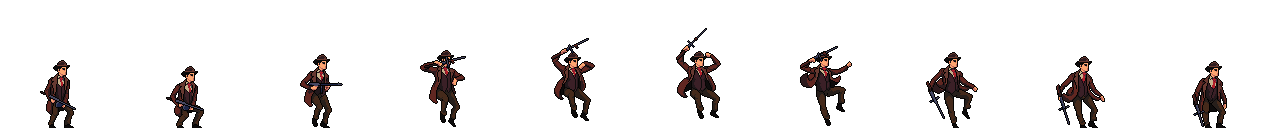
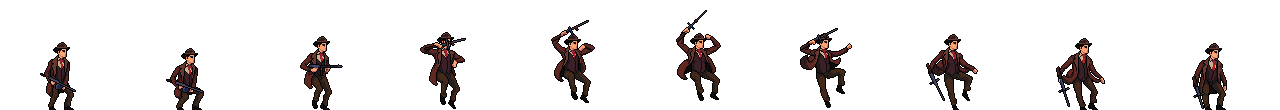
feat: geracao aleatoria de plataformas

diff --git a/src/Entidades/Personagens/Jogador.cpp b/src/Entidades/Personagens/Jogador.cpp
@@ -11,10 +11,10 @@ Jogador::Jogador(float px, float py, int vidas) : Personagem(px, py, vidas),
                                                   animacao(), direcao(1), state(IDLE), velocidadeCorrida(VELOCIDADE_CORRIDA * velocidadeX),
                                                   tempoDesdeUltimoPulo(0.0f) // Inicializa o tempo desde o último pulo
 {
-    animacao.addTrilha("idle", new TrilhaAnimacao(5, 15, 128, 128, 3.0, 3.0, "./assets/Gangsters_1/Idle.png"));
-    animacao.addTrilha("running", new TrilhaAnimacao(9, 10, 128, 128, 3.0, 3.0, "./assets/Gangsters_1/Run.png"));
-    animacao.addTrilha("walking", new TrilhaAnimacao(9, 10, 128, 128, 3.0, 3.0, "./assets/Gangsters_1/Walk.png"));
-    animacao.addTrilha("jump", new TrilhaAnimacao(9, 10, 128, 128, 3.0, 3.0, "./assets/Gangsters_1/Jump.png"));
+    animacao.addTrilha("idle", new TrilhaAnimacao(5, 15, 128, 79, 40, 3.0, 3.0, "./assets/Gangsters_1/Idle.png"));
+    animacao.addTrilha("running", new TrilhaAnimacao(9, 10, 128, 80, 20, 3.0, 3.0, "./assets/Gangsters_1/Run.png"));
+    animacao.addTrilha("walking", new TrilhaAnimacao(9, 10, 128, 81, 40, 3.0, 3.0, "./assets/Gangsters_1/Walk.png"));
+    animacao.addTrilha("jump", new TrilhaAnimacao(9, 10, 128, 110, 35, 3.0, 3.0, "./assets/Gangsters_1/Jump.png"));
     animacao.setPosition(x, y);
     animacao.setScale(3.f, 3.f);
     setAnimationState();
@@ -151,11 +151,8 @@ void Jogador::executar()
 
 void Jogador::aplicarGravidade()
 {
-    if (!noChao)
-    {
-        velocidadeY += GRAVIDADE * TEMPO_FRAME; // Aceleração devido à gravidade
-        y += velocidadeY * TEMPO_FRAME;
-    }
+    velocidadeY += GRAVIDADE * TEMPO_FRAME; // Aceleração devido à gravidade
+    y += velocidadeY * TEMPO_FRAME;
 }
 
 void Jogador::desenhar()

diff --git a/src/ElementosGraficos/TrilhaAnimacao.cpp b/src/ElementosGraficos/TrilhaAnimacao.cpp
@@ -1,14 +1,14 @@
 #include "ElementosGraficos/TrilhaAnimacao.hpp"
 
-TrilhaAnimacao::TrilhaAnimacao(int frames, int t, int width, int height, float sx, float sy, const char *path)
+TrilhaAnimacao::TrilhaAnimacao(int frames, int t, int f_width, int f_height, int f_whitespace, float sx, float sy, const char *path)
     : animation_index(0), animation_time(0), animation_frames(frames), time_before_update(t),
-      animation_path(path), frame_width(width), frame_height(height)
+      animation_path(path), frame_width(f_width), frame_height(f_height), frame_whitespace(f_whitespace)
 {
   sf::Texture *tex = Gerenciador_Grafico::getInstance().carregaTextura(animation_path);
   sprite.setTexture(*tex);
-  sprite.setTextureRect(sf::IntRect(0, 0, width, height));
+  sprite.setTextureRect(sf::IntRect(frame_whitespace, 0, (frame_width - frame_whitespace * 2), frame_height));
   sprite.setScale(sx, sy);
-  sprite.setOrigin(width / 2.f, height / 2.f); // Define a origem no centro da sprite
+  sprite.setOrigin((frame_width - frame_whitespace * 2) / 2.f, frame_height / 2.f); // Define a origem no centro da sprite
 }
 
 TrilhaAnimacao::~TrilhaAnimacao() {}
@@ -30,7 +30,7 @@ void TrilhaAnimacao::update()
 
   if (changed)
   {
-    sprite.setTextureRect(sf::IntRect(frame_width * animation_index, 0, frame_width, frame_height));
+    sprite.setTextureRect(sf::IntRect(frame_width * animation_index + frame_whitespace, 0, frame_width - frame_whitespace * 2, frame_height));
   }
 }
 

diff --git a/src/PerformanceMonitor.cpp b/src/PerformanceMonitor.cpp
@@ -1,16 +1,19 @@
 #include "PerformanceMonitor.hpp"
 
-void PerformanceMonitor::startFrame() {
+void PerformanceMonitor::startFrame()
+{
     start = std::chrono::high_resolution_clock::now();
 }
 
-void PerformanceMonitor::endFrame() {
+void PerformanceMonitor::endFrame()
+{
     auto end = std::chrono::high_resolution_clock::now();
     std::chrono::duration<float> duration = end - start;
     frameTime = duration.count();
     fps = 1.0f / frameTime;
 }
 
-void PerformanceMonitor::printFPS() const {
-    std::cout << "FPS: " << fps << " (Frame time: " << frameTime << "s)" << std::endl;
+void PerformanceMonitor::printFPS() const
+{
+    // std::cout << "FPS: " << fps << " (Frame time: " << frameTime << "s)" << std::endl;
 }

diff --git a/src/Fases/Fase.cpp b/src/Fases/Fase.cpp
@@ -24,11 +24,21 @@ void Fase::criarCenario()
   fundo.setTextureRect(sf::IntRect(0, 0, largura * 10, altura * 10));
 }
 
-void Fase::criarPlataformas()
+void Fase::criarPlataformas(int qty_plt)
 {
-  for (int i = 0; i < 30; i++)
+  int py = 1075;
+  for (int i = 0; i < qty_plt; i += 2)
   {
-    Plataforma *p = new Plataforma(66 * i, 1075);
+    int val = rand() % 3; // 0 keeps the same
+    if (val == 1)
+      py += 48;
+    else if (val == 2)
+      py -= 48;
+
+    // inclui duas no mesmo nível sempre
+    Plataforma *p = new Plataforma(66 * i, py);
+    plataformas.incluir(p);
+    p = new Plataforma(66 * (i + 1), py);
     plataformas.incluir(p);
     gerenciadorColisoes.incluirEntidadeEstatica(p);
   }

diff --git a/include/ElementosGraficos/TrilhaAnimacao.hpp b/include/ElementosGraficos/TrilhaAnimacao.hpp
@@ -12,11 +12,12 @@ private:
   int time_before_update;
   int frame_width;
   int frame_height;
+  int frame_whitespace;
   sf::Sprite sprite;
   const char *animation_path;
 
 public:
-  TrilhaAnimacao(int frames, int t, int width, int height, float sx, float sy, const char *path);
+  TrilhaAnimacao(int frames, int t, int f_width, int f_height, int f_whitespace, float sx, float sy, const char *path);
   ~TrilhaAnimacao();
   void update();
   void setPosition(int px, int py);

diff --git a/src/ElementosGraficos/ObjetoEstatico.cpp b/src/ElementosGraficos/ObjetoEstatico.cpp
@@ -3,7 +3,9 @@
 ObjetoEstatico::ObjetoEstatico(const char *path)
 {
   sf::Texture *tex = Gerenciador_Grafico::getInstance().carregaTextura(path);
+  sf::IntRect textureRect(0, 0, tex->getSize().x, tex->getSize().y);
   sprite.setTexture(*tex);
+  sprite.setTextureRect(textureRect);
   sprite.setOrigin(tex->getSize().x / 2.f, tex->getSize().y / 2.f); // Define a origem no centro da sprite
 }
 

diff --git a/include/Fases/Fase.hpp b/include/Fases/Fase.hpp
@@ -18,7 +18,7 @@ protected:
   ListaEntidades plataformas;
   ListaEntidades entidades;
   Jogador *jogador;
-  void criarPlataformas();
+  void criarPlataformas(int qty_plt = 100);
   void criarCenario();
 
 public:

diff --git a/src/main.cpp b/src/main.cpp
@@ -1,6 +1,8 @@
 #include "Jogo.hpp"
 
-int main() {
+int main()
+{
+    srand(time(NULL));
     Jogo jogo;
     jogo.executar();
     return 0;
